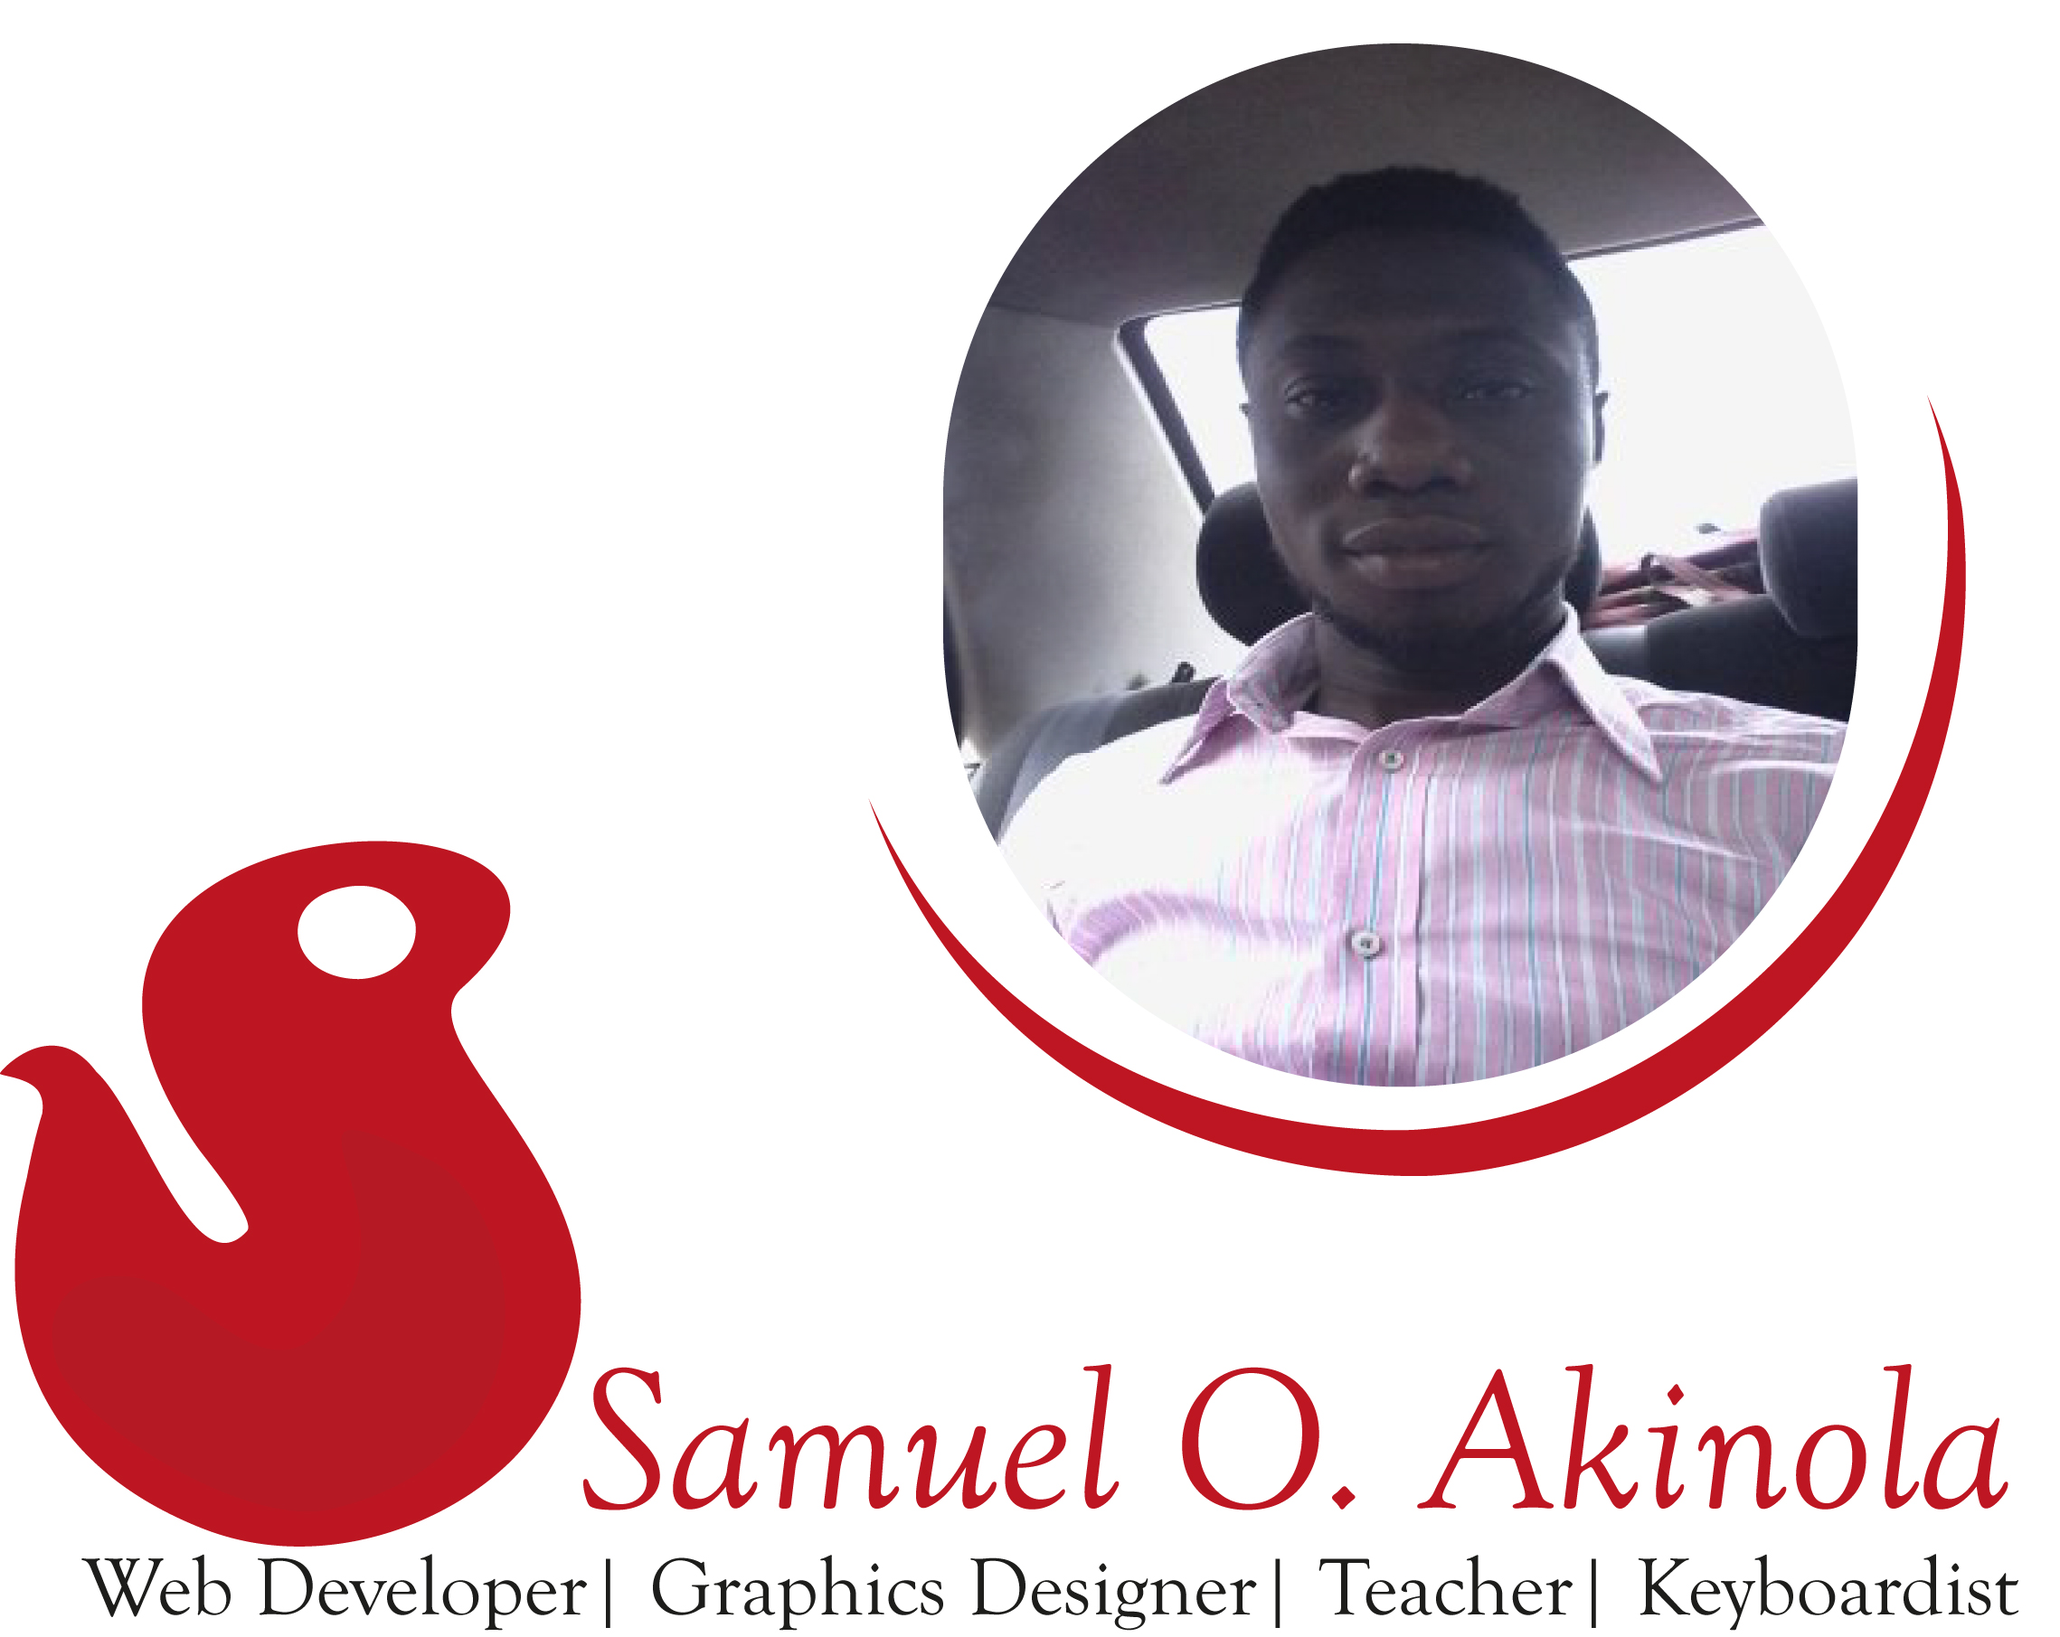
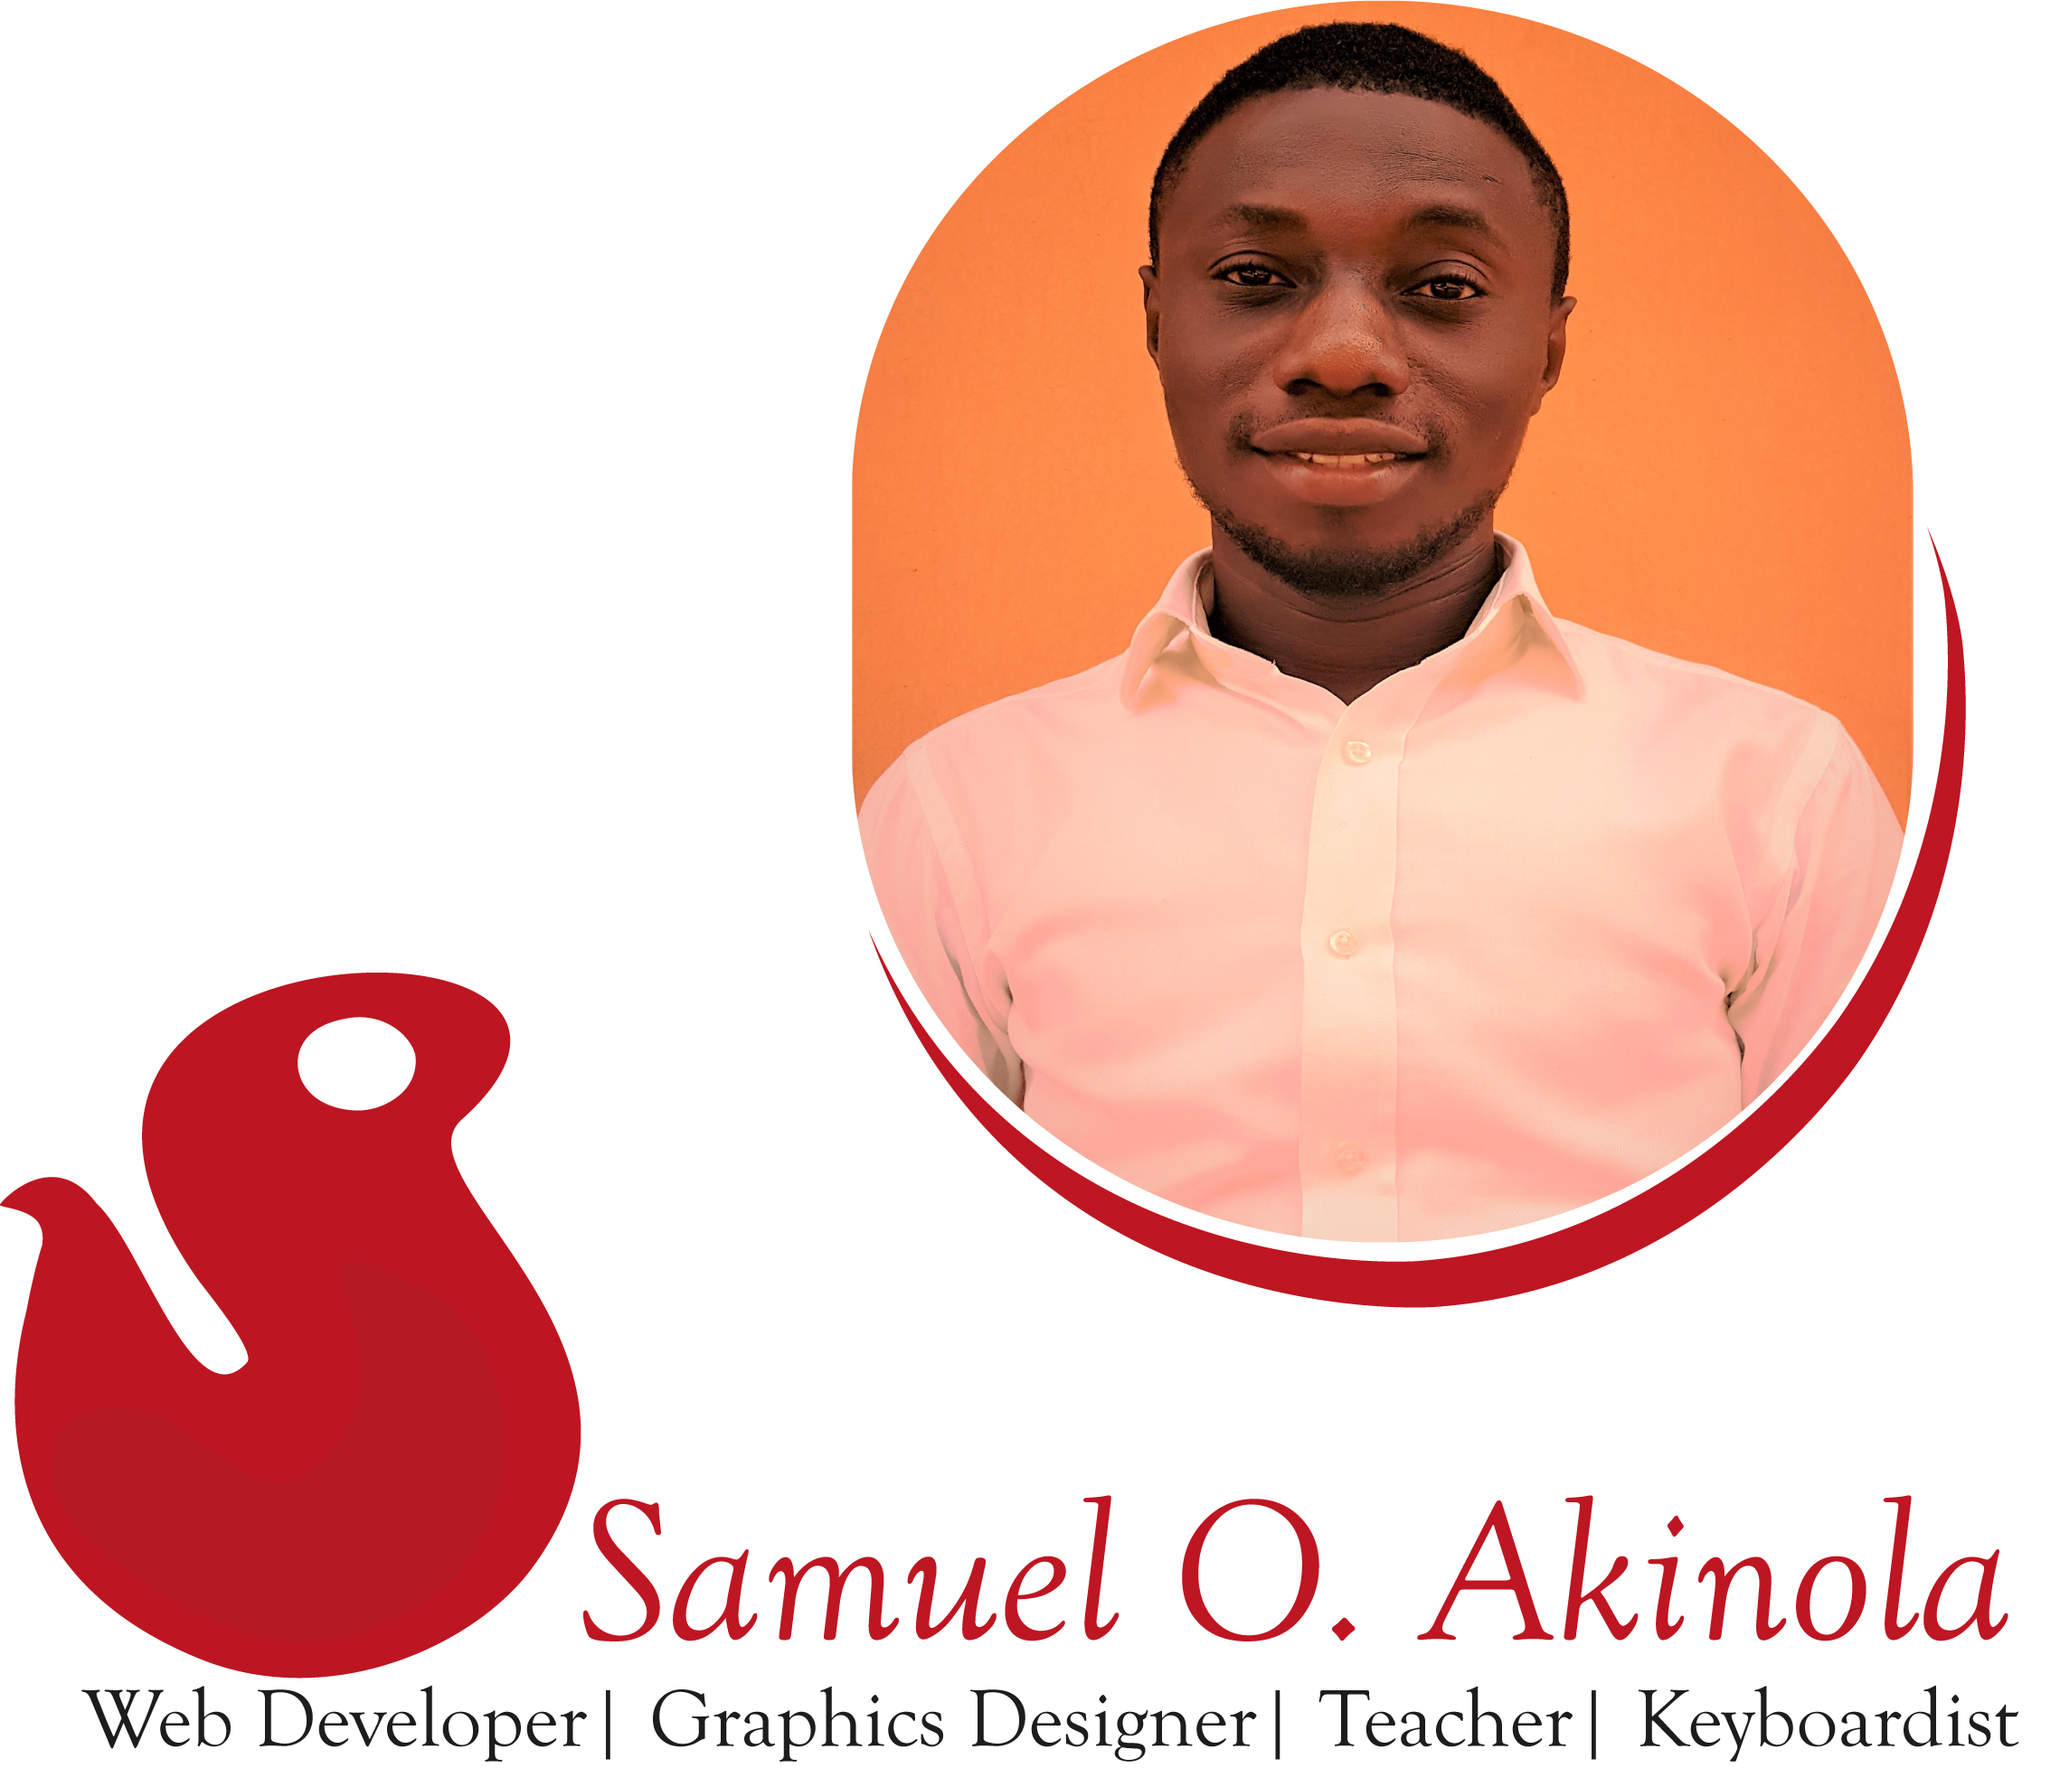
Updated Portfolio

diff --git a/Profile/InnerProfile.html b/Profile/InnerProfile.html
@@ -43,12 +43,13 @@
                                 <p><strong>Graphic Design</strong><br>
                                      Let your Business stand out with a decent look.</p>
                                     <img src="beatitudepostcard.jpg" alt="beatitude_jewel" width="80" height="70"/>
-                                    <img src="gIFTEDHANDSnew30.jpg" alt="giftedhands" width="100" height="70"/>
-                                    <img src="Infotech.jpg" alt="infotech_path" width="100"  height="70"/>
+                                    <img src="gIFTEDHANDSnew30.jpg" alt="giftedhands" width="80" height="70"/>
+                                    <img src="Infotech.jpg" alt="infotech_path" width="80"  height="70"/>
                                     <img src="AdsMe-100.jpg" alt="Ads.mm" width="80" height="70"/>
                                     <img src="MoFruitees.jpg" alt="MoFruitees" width="80"  height="70"/>
                                     <img src="photo5.png" alt="small" width="80" height="70"/>
-                                    <img src="uniquelife.jpg" alt=""  width="80" height="70"/>   
+                                    <img src="uniquelife.jpg" alt="Ulife"  width="80" height="70"/>
+                                    <img src="AboutMe.jpg" alt="About_me"  width="80" height="70"/>    
                         </div>
                         <div class="aside">
                             <h1>"The World Awaits You"</h1> With a website, you can reach millions of people around the world. 

diff --git a/Profile/MyProfile.html b/Profile/MyProfile.html
@@ -18,10 +18,10 @@
         <![endif]-->
         <div class="content"></div>
         <div class="my-image">
-            <img src="giftedhands.jpg" height="250" width="220">
+            <img src="giftedhands.jpg" height="200" width="170">
         </div>
             <div class="bg-text">
-                    <h1>Samuel Oluwashola Akinola</h1>
+                    <h1>Samuel O. Akinola</h1>
                     <p>Web Developer |
                     <a href="InnerProfile.html">View Profile</a></p>
             </div>

diff --git a/Profile/MyProfile.css b/Profile/MyProfile.css
@@ -23,15 +23,15 @@ body, html{
   position: absolute;
   top: 120px;
   z-index: 2;
-  left: 40%;
+  left: 38%;
 }
 .bg-text {
-    top: 380px;
+    top: 300px;
     position: absolute;
     color:white;
     font-weight: bold;
     z-index: 3;  
-    left: 40%;
+    left: 37%;
 }
 .bg-text a{
     color: bisque;

diff --git a/Profile/innerProfile.css b/Profile/innerProfile.css
@@ -46,7 +46,7 @@ body{
     text-align:left;
 }
 a{
-    color: darkblue;
+    color: red;
     text-decoration: none;
     font-family:-apple-system, BlinkMacSystemFont, 'Segoe UI', Roboto, Oxygen, Ubuntu, Cantarell, 'Open Sans', 'Helvetica Neue', sans-serif; 
 }
